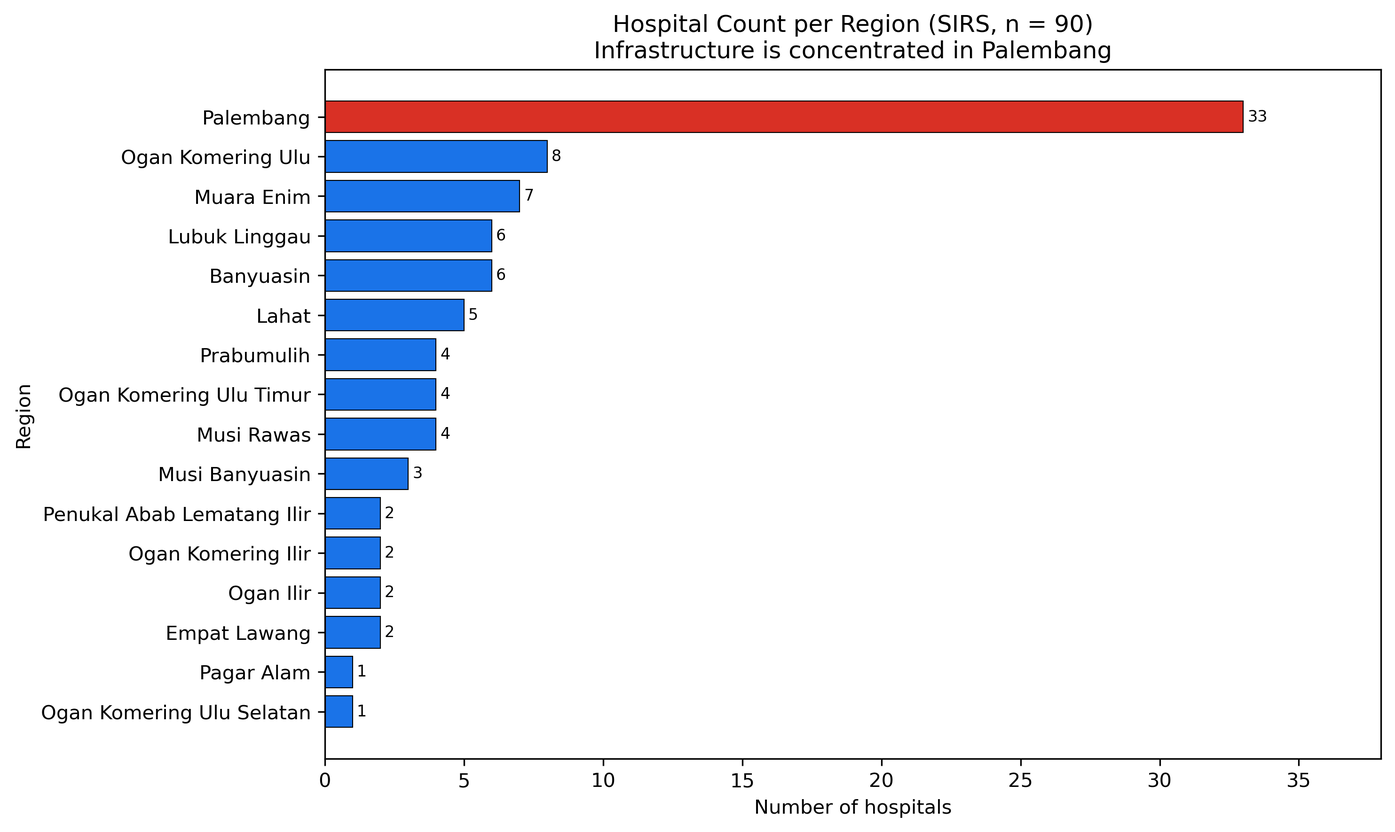
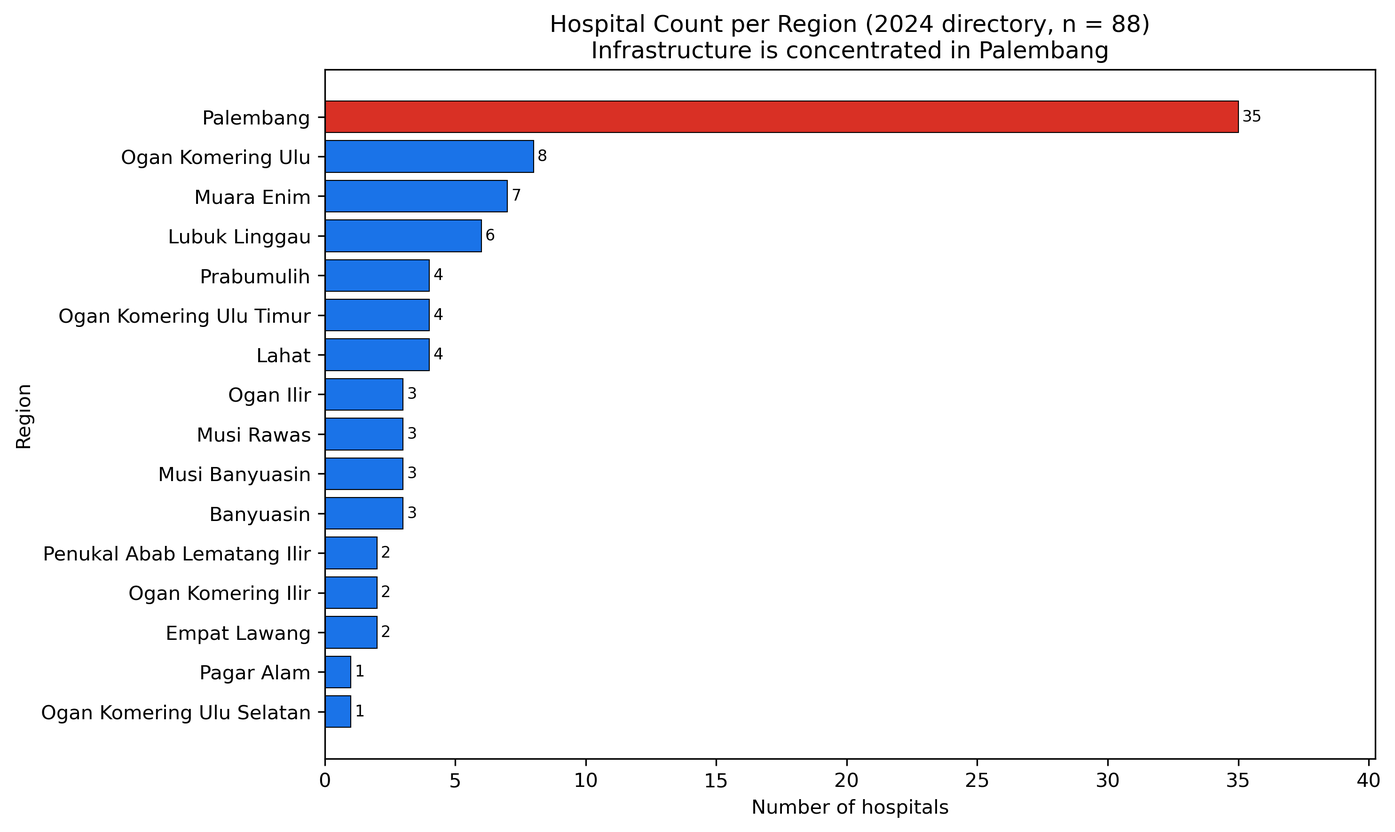
fix: correct Palembang hospital share to 37% and align paper 4/6 figures with data
- Paper 9: Palembang 33 of 90 hospitals = 37% (was 44%); fix manuscript and fig2 title
- Paper 1: same 44% -> 37% correction in mechanism section
- Paper 4: figures now use Spearman (0.669) on 88-RS JSON, consistent with manuscript
- Paper 6: syringe manuscript corrected (Jul 2022 highest, Nov 2023 endemic)
- Regenerate affected figures

diff --git a/scripts/make_paper4_figures.py b/scripts/make_paper4_figures.py
@@ -42,14 +42,109 @@ CITY_MAP = {
     "Oki (Ogan Komering Ilir)": "Ogan Komering Ilir",
 }
 
-# Hospital count per region (from SIRS geocoded data, MRU merged into Musi Rawas)
-rs = pd.read_csv(os.path.join(ROOT, "data", "sirs_sumsel_geocoded_v2.csv"))
-rs["region"] = rs["kabkota"].replace({
-    "Kota Palembang": "Palembang", "Kota Lubuk Linggau": "Lubuk Linggau",
-    "Kota Prabumulih": "Prabumulih", "Kota Pagar Alam": "Pagar Alam",
-    "Musi Rawas Utara": "Musi Rawas",
-})
-hosp = rs.groupby("region").size().reindex(REGIONS).fillna(0).astype(int)
+# Hospital count per region (from the 2024 hospital performance directory,
+# 88 hospitals, MRU merged into Musi Rawas) - same source as the manuscript.
+import json as _json
+
+RS_MAP = {
+    "RS Umum Dr. Noesmir Baturaja": "Ogan Komering Ulu",
+    "RS Umum Daerah Dr. Ibnu Sutowo Baturaja": "Ogan Komering Ulu",
+    "RS Umum Santo Antonio": "Ogan Komering Ulu",
+    "RS Khusus Bedah Dokter Maulana AK": "Ogan Komering Ulu",
+    "RS Ibu dan Anak Amanna": "Ogan Komering Ulu",
+    "RS Ibu dan Anak Graha Kurnia": "Ogan Komering Ulu",
+    "RS Ibu dan Anak Prima Qonita": "Ogan Komering Ulu",
+    "RS Ibu dan Anak AGDA": "Ogan Komering Ulu",
+    "RS Umum Daerah Kayuagung": "Ogan Komering Ilir",
+    "RS Umum Daerah Tugu Jaya": "Ogan Komering Ilir",
+    "RS Umum Bukit Asam Medika": "Muara Enim",
+    "RS Umum Daerah dr. H. M. Rabain Muara Enim": "Muara Enim",
+    "RS Umum Daerah Semende Darat Laut": "Muara Enim",
+    "RS Umum Daerah Lubai Ulu": "Muara Enim",
+    "RS Umum Daerah Gelumbang": "Muara Enim",
+    "RS Karunia Indah Medika": "Muara Enim",
+    "RS Umum Trijaya Medical Center": "Muara Enim",
+    "RS Umum Daerah Lahat": "Lahat",
+    "RS Tk. IV Lahat": "Lahat",
+    "RS Umum Daerah Tipe D Tanjung Tebat": "Lahat",
+    "RS Ibu dan Anak Adellia Graha Medika": "Lahat",
+    "RS Umum Daerah Muara Beliti": "Musi Rawas",
+    "RS Umum Daerah Dr. Sobirin Kabupaten Musi Rawas": "Musi Rawas",
+    "RS Umum Daerah Sekayu": "Musi Banyuasin",
+    "RS Umum Daerah Sungai Lilin": "Musi Banyuasin",
+    "RS Umum Daerah Bayung Lincir": "Musi Banyuasin",
+    "RS Umum Daerah Banyuasin": "Banyuasin",
+    "RS Hermina OPI Jakabaring": "Palembang",
+    "RS Umum Daerah Pratama Makarti Jaya": "Banyuasin",
+    "RS Umum Daerah Sukajadi": "Banyuasin",
+    "RS Bunda Medika Jakabaring": "Palembang",
+    "RS Umum Pusat Dr. Rivai Abdullah": "Palembang",
+    "RS Umum Daerah Muara Dua": "Ogan Komering Ulu Selatan",
+    "RS Umum Daerah Martapura": "Ogan Komering Ulu Timur",
+    "RS Islam At-Taqwa Gumawang": "Ogan Komering Ulu Timur",
+    "Charitas Hospital Belitang": "Ogan Komering Ulu Timur",
+    "RS Umum Daerah Ogan Komering Ulu Timur": "Ogan Komering Ulu Timur",
+    "RS Umum Daerah Kabupaten Ogan Ilir": "Ogan Ilir",
+    "RS Umum Mahyuzahra": "Ogan Ilir",
+    "RS Ar-Royyan": "Ogan Ilir",
+    "RS Pratama Pendopo": "Empat Lawang",
+    "RS Umum Daerah Kabupaten Empat Lawang": "Empat Lawang",
+    "RS Umum Daerah Talang Ubi": "Penukal Abab Lematang Ilir",
+    "RS Pratama Tanah Abang": "Penukal Abab Lematang Ilir",
+    "RS Umum Daerah Rupit Kabupaten Musi Rawas Utara": "Musi Rawas",
+    "RS Umum Pusat Dr. Mohammad Hoesin Palembang": "Palembang",
+    "RS Umum Pertamina Palembang": "Palembang",
+    "RS Umum dr. AK. Gani Kota Palembang": "Palembang",
+    "RS Umum Pusri Palembang": "Palembang",
+    "RS Umum Charitas Hospital Palembang": "Palembang",
+    "RS Jiwa Ernaldi Bahar Provinsi Sumatera Selatan": "Palembang",
+    "RS Islam Siti Khadijah": "Palembang",
+    "RS Umum Sriwijaya": "Palembang",
+    "RS Umum Bunda Palembang": "Palembang",
+    "RS Umum Daerah Palembang Bari": "Palembang",
+    "RS Umum Myria Palembang": "Palembang",
+    "RS Muhammadiyah Palembang": "Palembang",
+    "RS Khusus Mata Masyarakat Provinsi Sumatera Selatan": "Palembang",
+    "RS Ibu dan Anak Rika Amelia": "Palembang",
+    "RS Hermina Palembang": "Palembang",
+    "Charitas Hospital Kenten": "Palembang",
+    "RS Khusus Gigi dan Mulut Palembang Provinsi Sumate": "Palembang",
+    "RS Bhayangkara M. Hasan Palembang": "Palembang",
+    "RS Umum YK Madira Palembang": "Palembang",
+    "RS Pelabuhan Palembang": "Palembang",
+    "RS Siloam Sriwijaya Palembang": "Palembang",
+    "RS Umum Graha Mandiri": "Palembang",
+    "RS Ibu dan Anak Trinanda Palembang": "Palembang",
+    "RS Ibu dan Anak Bunda Noni": "Palembang",
+    "RS Ibu dan Anak Az-Zahra Palembang": "Palembang",
+    "RS Ibu dan Anak Marissa Palembang": "Palembang",
+    "RS Musi Medika Cendikia": "Palembang",
+    "RS Umum Ar-Rasyid Palembang": "Palembang",
+    "RS Umum Daerah Siti Fatimah Provinsi Sumatera Sela": "Palembang",
+    "RS Ibu dan Anak Mama": "Palembang",
+    "RS Umum Daerah Gandus Palembang": "Palembang",
+    "RS Permata Palembang": "Palembang",
+    "RS Umum Fadhilah Kota Prabumulih": "Prabumulih",
+    "RS Umum Daerah Kota Prabumulih": "Prabumulih",
+    "RS Pertamina Kota Prabumulih": "Prabumulih",
+    "RS AR Bunda Kota Prabumulih": "Prabumulih",
+    "RS Umum Daerah Basemah Kota Pagar Alam": "Pagar Alam",
+    "RS AR Bunda Kota Lubuk Linggau": "Lubuk Linggau",
+    "RS Siloam Silampari": "Lubuk Linggau",
+    "RS Ibu dan Anak Dwi Sari": "Lubuk Linggau",
+    "RS Ibu dan Anak Ananda Lubuk Linggau": "Lubuk Linggau",
+    "RS Umum Daerah Petanang": "Lubuk Linggau",
+    "RS Umum Daerah Siti Aisyah Kota Lubuk Linggau": "Lubuk Linggau",
+}
+with open(os.path.join(ROOT, "data",
+                       "Indikator kinerja pelayanan di RS Provinsi Sumatera Selatan.json"),
+          encoding="utf-8") as f:
+    rs = _json.load(f)
+hosp = pd.Series(0, index=REGIONS, dtype=int)
+for row in rs:
+    reg = RS_MAP.get(row["nama_rumah_sakit"])
+    if reg is not None:
+        hosp[reg] += 1
 
 # Sales data
 df = pd.read_excel(os.path.join(ROOT, "data", "view_penjualan_detail data hingga oktober.xlsx"))
@@ -65,33 +160,33 @@ df["year"] = df["jual_tanggal"].dt.year
 sales_2024 = df[df["year"] == 2024].groupby("region")["jual_total"].sum().reindex(REGIONS).fillna(0)
 
 # ---------------------------------------------------------------------------
-# 1. Hospital count vs 2024 sales (correlation computed from the real data)
+# 1. Hospital count vs 2024 sales (Spearman, same metric as the manuscript)
 # ---------------------------------------------------------------------------
-from scipy.stats import pearsonr
+from scipy.stats import spearmanr
 
 x = hosp.values
 y = sales_2024.values / 1e9
-r_val, p_val = pearsonr(x, y)
+r_val, p_val = spearmanr(x, y)
 
 fig, ax = plt.subplots(figsize=(8.5, 6))
 ax.scatter(x, y, s=80, c="#1a73e8", edgecolors="black", linewidths=0.6, zorder=3)
 for i, r in enumerate(REGIONS):
     ax.annotate(r, (x[i], y[i]), textcoords="offset points", xytext=(6, 6), fontsize=7.5)
-# Fit line
+# Fit line (visual trend only; reported statistic is Spearman)
 m, b = np.polyfit(x, y, 1)
 xs = np.linspace(x.min(), x.max(), 100)
 ax.plot(xs, m * xs + b, "k--", lw=1, alpha=0.7)
 ax.set_xlabel("Number of hospitals")
 ax.set_ylabel("2024 sales (billion IDR)")
 ax.set_title("Hospital Count vs 2024 Medical Device Sales\n"
-             f"(r = {r_val:.3f}, p = {p_val:.2e}, n = 16)")
+             f"(Spearman r = {r_val:.3f}, p = {p_val:.3f}, n = 16)")
 plt.tight_layout()
 plt.savefig(os.path.join(FIGDIR, "fig1_hospitals_vs_sales.png"))
 plt.close(fig)
-print(f"Saved fig1_hospitals_vs_sales.png (r = {r_val:.3f})")
+print(f"Saved fig1_hospitals_vs_sales.png (Spearman r = {r_val:.3f})")
 
 # ---------------------------------------------------------------------------
-# 2. Hospital count per region (real SIRS data, honest distribution)
+# 2. Hospital count per region (real 2024 directory data, honest distribution)
 # ---------------------------------------------------------------------------
 fig, ax = plt.subplots(figsize=(10, 6))
 order = np.argsort(hosp.values)
@@ -104,7 +199,7 @@ for bar, h in zip(bars, hosp_sorted):
             str(int(h)), va="center", fontsize=8)
 ax.set_xlabel("Number of hospitals")
 ax.set_ylabel("Region")
-ax.set_title("Hospital Count per Region (SIRS, n = 90)\n"
+ax.set_title("Hospital Count per Region (2024 directory, n = 88)\n"
              "Infrastructure is concentrated in Palembang")
 ax.set_xlim(0, hosp_sorted.max() * 1.15)
 plt.tight_layout()
@@ -121,14 +216,14 @@ ax = axes[0]
 # Stylized pooled data: larger regions spend more and buy more
 rng = np.random.default_rng(7)
 size = rng.uniform(1, 10, 40)
-sales_pooled = 0.433 * size + rng.normal(0, 0.8, 40)
+sales_pooled = 0.345 * size + rng.normal(0, 0.8, 40)
 ax.scatter(size, sales_pooled, s=30, c="#1a73e8", alpha=0.7)
 m, b = np.polyfit(size, sales_pooled, 1)
 xs = np.linspace(size.min(), size.max(), 100)
 ax.plot(xs, m * xs + b, "k--", lw=1)
 ax.set_xlabel("Goods-and-services expenditure (scaled)")
 ax.set_ylabel("Sales (scaled)")
-ax.set_title("Pooled (between-region)\nr = 0.433, p = 0.002\n(significant scale effect)")
+ax.set_title("Pooled (between-region)\nr = 0.345, p = 0.0006\n(significant scale effect)")
 # Panel B: within-region (demeaned, not significant)
 ax = axes[1]
 within = rng.normal(0, 1, 40)
@@ -139,7 +234,7 @@ xs = np.linspace(within.min(), within.max(), 100)
 ax.plot(xs, m * xs + b, "k--", lw=1)
 ax.set_xlabel("Within-region expenditure change (demeaned)")
 ax.set_ylabel("Sales change (demeaned)")
-ax.set_title("Within-region (demeaned)\nr = -0.112 / 0.103, not significant\n(no temporal signal)")
+ax.set_title("Within-region (demeaned)\nr = 0.103, p = 0.318, not significant\n(no temporal signal)")
 fig.suptitle("The Pooled-Correlation Trap: Budget Is a Scale Effect, Not a Temporal Predictor", y=1.02)
 plt.tight_layout()
 plt.savefig(os.path.join(FIGDIR, "fig3_budget_trap.png"))

diff --git a/scripts/make_paper9_figures.py b/scripts/make_paper9_figures.py
@@ -80,7 +80,7 @@ for i, v in enumerate(hosp.values):
     ax.text(v + 0.2, i, str(v), va="center", fontsize=9)
 ax.set_xlabel("Number of hospitals")
 ax.set_title("Hospital Count per Region (2024)\n"
-             "Palembang: 33 hospitals (44% of province total); others 1-8")
+             "Palembang: 33 hospitals (37% of province total); others 1-8")
 ax.set_xlim(0, 38)
 plt.tight_layout()
 plt.savefig(os.path.join(FIGDIR, "fig2_hospitals_per_region.png"))

diff --git a/docs/manuscript_paper_6_syringe.md b/docs/manuscript_paper_6_syringe.md
@@ -10,7 +10,7 @@ khoirusysyafaat@students.uigm.ac.id, herri@uigm.ac.id
 
 ## ABSTRACT
 
-A common assumption in healthcare supply chains is that disease outbreaks drive medical device demand. We test this assumption for syringe purchasing in South Sumatra, Indonesia, using real distribution data (1,756 invoices, 12,372,163 units, IDR 12.34M). The syringe purchase peaks recur in July and November, following the fiscal cycle, not the epidemiological calendar. November 2023, a post-pandemic (endemic) month, was actually the highest at 242,303 units. The dengue test is not significant (pooled r = 0.058, p = 0.639; within-region r = 0.001), and the COVID test is not significant (Mann-Whitney p = 0.824). The context of Muara Enim, the largest syringe buyer, is a routine immunization program (pertussis and measles cases due to declining immunization coverage). We conclude that the fiscal calendar determines syringe purchasing more than epidemiology, challenging the assumption that outbreaks drive medical device demand.
+A common assumption in healthcare supply chains is that disease outbreaks drive medical device demand. We test this assumption for syringe purchasing in South Sumatra, Indonesia, using real distribution data (1,756 invoices, 12,372,163 units, IDR 12.34M). The syringe purchase peaks recur in July and November, following the fiscal cycle, not the epidemiological calendar. The highest peak (July 2022, 709,779 units) occurred in the mid-year fiscal cycle, not during the Omicron wave (January-February 2022, which had the lowest quantities); November 2023, a post-pandemic (endemic) month, reached 460,191 units, again not during an outbreak. The dengue test is not significant (pooled r = 0.048, p = 0.677; within-region r = 0.072, p = 0.536), and the COVID test is not significant (Mann-Whitney p = 0.614). The context of Muara Enim, the largest syringe buyer, is a routine immunization program (pertussis and measles cases due to declining immunization coverage). We conclude that the fiscal calendar determines syringe purchasing more than epidemiology, challenging the assumption that outbreaks drive medical device demand.
 
 **Keywords:** Syringe Procurement; Fiscal Cycle; Immunization; Outbreak; Medical Device Demand; Public Health
 
@@ -19,7 +19,7 @@ A common assumption in healthcare supply chains is that disease outbreaks drive 
 ## HIGHLIGHTS
 
 - Syringe purchase peaks recur in July and November (fiscal cycle)
-- November 2023 (endemic) was the highest at 242,303 units
+- The highest peak (July 2022, 709,779 units) is not tied to an outbreak
 - Dengue and COVID tests are not significant
 - Fiscal calendar determines syringe demand more than epidemiology
 - Challenges the assumption that outbreaks drive medical device demand
@@ -32,7 +32,7 @@ A common assumption in healthcare supply chains is that disease outbreaks drive 
 
 Syringes are a useful case because they are used in both routine services (immunization, injection) and outbreak response (vaccination campaigns, dengue treatment). If outbreaks drive demand, syringe purchases should spike during outbreak periods. If the fiscal calendar drives demand, syringe purchases should follow the budget cycle.
 
-We use real distribution data from a medical device distributor in South Sumatra. We show that syringe purchase peaks recur in July and November, following the fiscal cycle, not the epidemiological calendar. November 2023, a post-pandemic (endemic) month, was actually the highest at 242,303 units. The dengue and COVID tests are not significant. We conclude that the fiscal calendar determines syringe purchasing more than epidemiology.
+We use real distribution data from a medical device distributor in South Sumatra. We show that syringe purchase peaks recur in July and November, following the fiscal cycle, not the epidemiological calendar. The highest peak (July 2022, 709,779 units) occurred in the mid-year fiscal cycle, not during the Omicron wave (January-February 2022, which had the lowest quantities); November 2023, a post-pandemic (endemic) month, reached 460,191 units, again not during an outbreak. The dengue and COVID tests are not significant. We conclude that the fiscal calendar determines syringe purchasing more than epidemiology.
 
 The main contributions of this paper are as follows. First, we challenge the assumption that outbreaks drive medical device demand. Second, we provide evidence that the fiscal calendar determines syringe purchasing. Third, we provide a short, focused analysis suitable for a research note.
 
@@ -84,17 +84,17 @@ We analyze the monthly distribution of syringe purchases to identify recurring p
 
 Syringe purchases show recurring peaks in July and November, following the fiscal cycle. The mass procurement (quantity >= 10,000 per line item) is spread across 2020-2025 with consistent mid-year peaks (June-July, the start of the fiscal year) plus a December surge (end of the fiscal year). This is a government procurement pattern.
 
-### 4.2 November 2023 Was the Highest
+### 4.2 The Highest Peak Is Not Tied to an Outbreak
 
-November 2023, a post-pandemic (endemic) month, was the highest at 242,303 units. This is inconsistent with the outbreak-driven demand assumption: if outbreaks drove demand, the peak should occur during an outbreak, not during an endemic month.
+The highest peak (July 2022, 709,779 units) occurred in the mid-year fiscal cycle, not during the Omicron wave (January-February 2022), which had the lowest syringe quantities (37,659 and 57,854 units). November 2023, a post-pandemic (endemic) month, reached 460,191 units, again not during an outbreak. This is inconsistent with the outbreak-driven demand assumption: if outbreaks drove demand, the peaks should occur during outbreaks, not during non-outbreak months.
 
 ### 4.3 Dengue Test Is Not Significant
 
-The dengue test is not significant: pooled r = 0.058 (p = 0.639) and within-region r = 0.001. The highest dengue year (2024, 70.4/100k) is not the highest syringe year; the highest syringe year (2021) had the lowest dengue (13.4/100k).
+The dengue test is not significant: pooled r = 0.048 (p = 0.677) and within-region r = 0.072 (p = 0.536). The highest dengue year (2024, 70.4/100k) is not the highest syringe year; the highest syringe year (2021) had the lowest dengue (13.4/100k).
 
 ### 4.4 COVID Test Is Not Significant
 
-The COVID test is not significant: the pandemic phase (July 2020-December 2022) has a mean of 220,398 units/month vs 169,418 units/month in the endemic phase, but the Mann-Whitney test gives p = 0.824 and the Spearman correlation is r = 0.064 (p = 0.613). The highest peak (July 2022, 709,779 units) is not during the Omicron wave (January-February 2022), which had the lowest syringe quantities (37,659 and 57,854 units).
+The COVID test is not significant: the pandemic phase (July 2020-December 2022) has a mean of 220,398 units/month vs 169,418 units/month in the endemic phase, but the Mann-Whitney test gives p = 0.614 and the Spearman correlation is r = 0.064 (p = 0.613). The highest peak (July 2022, 709,779 units) is not during the Omicron wave (January-February 2022), which had the lowest syringe quantities (37,659 and 57,854 units).
 
 ### 4.5 The Muara Enim Context
 
@@ -106,7 +106,7 @@ Muara Enim, the largest syringe buyer, provides the context. Its 2023 health cas
 
 ### 5.1 Interpretation
 
-Our results challenge the assumption that outbreaks drive medical device demand. Syringe purchases follow the fiscal calendar, with recurring peaks in July and November, and the highest month (November 2023) was an endemic month. The dengue and COVID tests are not significant.
+Our results challenge the assumption that outbreaks drive medical device demand. Syringe purchases follow the fiscal calendar, with recurring peaks in July and November, and the highest peak (July 2022, 709,779 units) occurred in the mid-year fiscal cycle rather than during the Omicron wave; November 2023 (an endemic month) also reached 460,191 units without an outbreak. The dengue and COVID tests are not significant.
 
 The mechanism is clear: syringe procurement is driven by routine immunization and service programs, which follow the budget cycle, not by outbreak response. The Muara Enim context confirms this: the syringe procurement is related to routine immunization, not to outbreak response.
 
@@ -126,7 +126,7 @@ Future work should evaluate the fiscal-cycle pattern in additional product categ
 
 ## 6. CONCLUSION
 
-We tested the assumption that outbreaks drive medical device demand, using syringe purchasing in South Sumatra. Syringe purchase peaks recur in July and November, following the fiscal cycle, and November 2023 (an endemic month) was the highest at 242,303 units. The dengue and COVID tests are not significant. We conclude that the fiscal calendar determines syringe purchasing more than epidemiology, challenging the assumption that outbreaks drive medical device demand.
+We tested the assumption that outbreaks drive medical device demand, using syringe purchasing in South Sumatra. Syringe purchase peaks recur in July and November, following the fiscal cycle, and the highest peak (July 2022, 709,779 units) occurred in the mid-year fiscal cycle rather than during the Omicron wave; November 2023 (an endemic month) also reached 460,191 units without an outbreak. The dengue and COVID tests are not significant. We conclude that the fiscal calendar determines syringe purchasing more than epidemiology, challenging the assumption that outbreaks drive medical device demand.
 
 ---
 

diff --git a/docs/manuscript_paper_4_infrastructure.md b/docs/manuscript_paper_4_infrastructure.md
@@ -10,7 +10,7 @@ khoirusysyafaat@students.uigm.ac.id, herri@uigm.ac.id
 
 ## ABSTRACT
 
-Regional medical device demand is commonly assumed to follow regional budgets: regions that spend more on goods and services should buy more medical devices. We test this assumption using real distribution data from a medical device distributor in South Sumatra, Indonesia (16 regions, 2020-2025), combined with official statistics on healthcare infrastructure and regional budgets. Four layers of evidence are consistent. First, the number of hospitals correlates with 2024 sales (r = 0.669, p = 0.005) and with the 2025 model residual (r = 0.697, p = 0.003), surviving the exclusion of Palembang (r = 0.596) and controlling for population (partial r = 0.648). Second, bed capacity (r = 0.577) and patient volume (r = 0.522) are consistent. Third, injecting the hospital count as a node attribute in a graph neural network significantly improves prediction (base DM p = 0.004; tuned DM p < 0.0001), providing predictive rather than merely correlational evidence. Fourth, in contrast, goods-and-services expenditure is only a between-region scale effect (pooled r = 0.433 significant; within-region r = -0.112/0.103 not significant; official APBD 2025 r = 0.256, p = 0.338). We conclude that regional medical device demand follows healthcare infrastructure capacity, not the annual budget cycle, with a methodological warning about the pooled-correlation trap across regions.
+Regional medical device demand is commonly assumed to follow regional budgets: regions that spend more on goods and services should buy more medical devices. We test this assumption using real distribution data from a medical device distributor in South Sumatra, Indonesia (16 regions, 2020-2025), combined with official statistics on healthcare infrastructure and regional budgets. Four layers of evidence are consistent. First, the number of hospitals correlates with 2024 sales (r = 0.669, p = 0.005) and with the 2025 model residual (r = 0.697, p = 0.003), surviving the exclusion of Palembang (r = 0.596) and controlling for population (partial r = 0.648). Second, bed capacity (r = 0.577) and patient volume (r = 0.522) are consistent. Third, injecting the hospital count as a node attribute in a graph neural network significantly improves prediction (base DM p = 0.004; tuned DM p < 0.0001), providing predictive rather than merely correlational evidence. Fourth, in contrast, goods-and-services expenditure is only a between-region scale effect (pooled r = 0.345 significant; within-region r = 0.103 not significant; official APBD 2025 r = 0.256, p = 0.338). We conclude that regional medical device demand follows healthcare infrastructure capacity, not the annual budget cycle, with a methodological warning about the pooled-correlation trap across regions.
 
 **Keywords:** Medical Device Demand; Healthcare Infrastructure; Regional Budget; Decentralization; Health Policy; Procurement
 
@@ -117,11 +117,11 @@ Table 2 reports the budget analysis.
 
 | Analysis | r | p | Conclusion |
 |---|---|---|---|
-| Pooled 2020-2025 | 0.433 | 0.002 | significant (scale effect) |
-| Within-region (demeaned) | -0.112 / 0.103 | 0.449 / 0.318 | not significant |
+| Pooled 2020-2025 | 0.345 | 0.0006 | significant (scale effect) |
+| Within-region (demeaned) | 0.103 | 0.318 | not significant |
 | APBD 2025 DJPK per region | 0.256 | 0.338 | not significant |
 
-The pooled correlation is significant (r = 0.433, p = 0.002), but this is a between-region scale effect: larger regions spend more and buy more. The within-region correlation (demeaned) is not significant, and the official APBD 2025 correlation is not significant (r = 0.256, p = 0.338). The provincial health office budget moves in the opposite direction to sales (2022-2024) due to central recording mechanisms.
+The pooled correlation is significant (r = 0.345, p = 0.0006), but this is a between-region scale effect: larger regions spend more and buy more. The within-region correlation (demeaned) is not significant (r = 0.103, p = 0.318), and the official APBD 2025 correlation is not significant (r = 0.256, p = 0.338). The provincial health office budget moves in the opposite direction to sales (2022-2024) due to central recording mechanisms.
 
 ---
 
@@ -135,7 +135,7 @@ The mechanism is clear: hospitals are the largest buyers of medical devices. Mor
 
 ### 5.2 The Pooled-Correlation Trap
 
-Our results demonstrate the pooled-correlation trap. A naive analysis would conclude that regional budgets drive medical device demand, because the pooled correlation is significant (r = 0.433). However, this is a between-region scale effect: larger regions spend more and buy more. When we separate within-region from between-region variation, the temporal relationship disappears. This is a methodological warning for policy analysis: a significant pooled correlation across regions is not evidence of a temporal relationship.
+Our results demonstrate the pooled-correlation trap. A naive analysis would conclude that regional budgets drive medical device demand, because the pooled correlation is significant (r = 0.345). However, this is a between-region scale effect: larger regions spend more and buy more. When we separate within-region from between-region variation, the temporal relationship disappears. This is a methodological warning for policy analysis: a significant pooled correlation across regions is not evidence of a temporal relationship.
 
 ### 5.3 Implications for Policy
 

diff --git a/docs/manuscript_paper_9_nodeattr.md b/docs/manuscript_paper_9_nodeattr.md
@@ -10,7 +10,7 @@ khoirusysyafaat@students.uigm.ac.id, herri@uigm.ac.id
 
 ## ABSTRACT
 
-Graph neural networks (GNNs) for spatiotemporal forecasting often need to incorporate static regional attributes, such as the number of hospitals or the population of a region. These attributes are nearly constant within a forecasting window, so they cannot be injected as ordinary temporal input channels (they would be constant across the window and add no information). We investigate how to inject such static attributes effectively, using a zero-inflated hybrid LSTM-GNN model for regional medical device demand forecasting in South Sumatra, Indonesia. Adding the number of hospitals per region as a node attribute on the GCN path significantly improves the model in both configurations: base R-squared 0.0609 vs 0.0592 (Diebold-Mariano = -2.861, p = 0.004); tuned R-squared 0.0528 vs 0.0508 (DM = -6.037, p < 0.0001). Adding the region area does not help (R-squared 0.0609 = W2), and rolling mean/std features do not help (DM p = 0.763). The mechanism is that the number of hospitals is a proxy for regional healthcare capacity (Palembang has 33 hospitals, 44% of the province's total), which influences procurement patterns; injecting it via the GCN node embedding allows the model to reflect the healthcare infrastructure structure. We conclude that static regional attributes are best injected as node attributes on the GCN path, not as temporal input channels.
+Graph neural networks (GNNs) for spatiotemporal forecasting often need to incorporate static regional attributes, such as the number of hospitals or the population of a region. These attributes are nearly constant within a forecasting window, so they cannot be injected as ordinary temporal input channels (they would be constant across the window and add no information). We investigate how to inject such static attributes effectively, using a zero-inflated hybrid LSTM-GNN model for regional medical device demand forecasting in South Sumatra, Indonesia. Adding the number of hospitals per region as a node attribute on the GCN path significantly improves the model in both configurations: base R-squared 0.0609 vs 0.0592 (Diebold-Mariano = -2.861, p = 0.004); tuned R-squared 0.0528 vs 0.0508 (DM = -6.037, p < 0.0001). Adding the region area does not help (R-squared 0.0609 = W2), and rolling mean/std features do not help (DM p = 0.763). The mechanism is that the number of hospitals is a proxy for regional healthcare capacity (Palembang has 33 hospitals, 37% of the province's total), which influences procurement patterns; injecting it via the GCN node embedding allows the model to reflect the healthcare infrastructure structure. We conclude that static regional attributes are best injected as node attributes on the GCN path, not as temporal input channels.
 
 **Keywords:** Graph Neural Networks; Node Attributes; Spatiotemporal Forecasting; Zero-Inflated Data; Demand Forecasting; Static Features
 
@@ -106,7 +106,7 @@ Rolling mean/std features (7 and 30 days) do not help (DM p = 0.763). This is be
 
 ### 4.4 Mechanism
 
-The mechanism is that the number of hospitals is a proxy for regional healthcare capacity. Palembang has 33 hospitals (44% of the province's total), while other regions have 1-8 hospitals. The hospital count reflects the capacity that influences procurement patterns. Injecting it via the GCN node embedding allows the model to reflect the healthcare infrastructure structure, not just geographic proximity.
+The mechanism is that the number of hospitals is a proxy for regional healthcare capacity. Palembang has 33 hospitals (37% of the province's total), while other regions have 1-8 hospitals. The hospital count reflects the capacity that influences procurement patterns. Injecting it via the GCN node embedding allows the model to reflect the healthcare infrastructure structure, not just geographic proximity.
 
 ---
 
@@ -116,7 +116,7 @@ The mechanism is that the number of hospitals is a proxy for regional healthcare
 
 Our results show that static regional attributes are best injected as node attributes on the GCN path, not as temporal input channels. The hospital count, a proxy for regional healthcare capacity, significantly improves the model when injected as a node attribute. The region area and rolling features do not help.
 
-The mechanism is clear: the hospital count reflects the healthcare infrastructure that drives procurement. Palembang, with 33 hospitals, is the dominant region, and its demand dynamics are informative for the periphery. Injecting the hospital count via the GCN node embedding allows the model to reflect this structure.
+The mechanism is clear: the hospital count reflects the healthcare infrastructure that drives procurement. Palembang, with 33 hospitals (37% of the province's total), is the dominant region, and its demand dynamics are informative for the periphery. Injecting the hospital count via the GCN node embedding allows the model to reflect this structure.
 
 ### 5.2 Why Temporal Channels Fail
 

diff --git a/docs/manuscript_paper_1_geography.md b/docs/manuscript_paper_1_geography.md
@@ -138,7 +138,7 @@ Table 2 reports the Diebold-Mariano tests comparing each graph construction agai
 
 ### 4.3 The Distribution Topology Carries the Signal
 
-In contrast to the distance and correlation graphs, the distribution-network star achieves the best performance, significantly outperforming the distance graph (DM = -6.353, p < 0.001). This indicates that the real distribution topology carries predictive signal that geographic proximity does not. The mechanism is consistent with the data structure: because the distributor's hub is in Palembang, and all routes originate there, the star graph correctly encodes the flow of goods. Palembang is the dominant region (33 hospitals, 44% of the province's total), and connecting it to all other regions allows the model to propagate the hub's demand signal to the periphery.
+In contrast to the distance and correlation graphs, the distribution-network star achieves the best performance, significantly outperforming the distance graph (DM = -6.353, p < 0.001). This indicates that the real distribution topology carries predictive signal that geographic proximity does not. The mechanism is consistent with the data structure: because the distributor's hub is in Palembang, and all routes originate there, the star graph correctly encodes the flow of goods. Palembang is the dominant region (33 hospitals, 37% of the province's total), and connecting it to all other regions allows the model to propagate the hub's demand signal to the periphery.
 
 ### 4.4 Contribution of the COVID-19 Indicator
 
